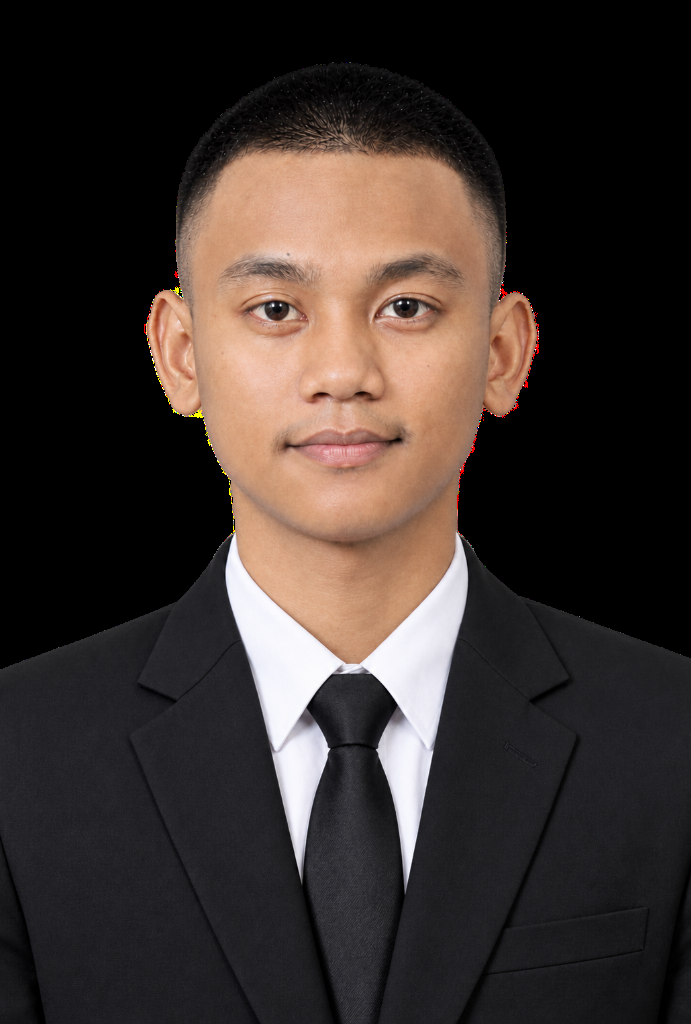
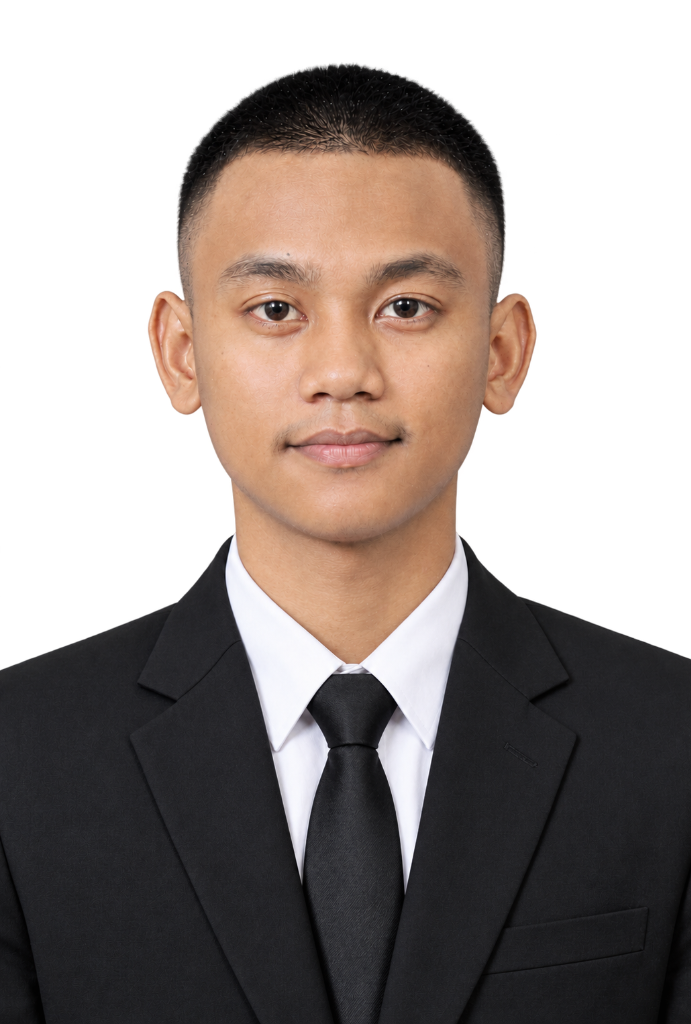
fix: restore 100% clean transparent portrait cutout and clean Luffy Fire Mode without background artifacts

diff --git a/index.html b/index.html
@@ -157,10 +157,10 @@
 
         <!-- Layer 2: Subject Cutout Image & Dual Persona (Febriansyah x Pose-Matched Luffy Fire Mode) -->
         <div class="hero-portrait-wrap" id="heroPortraitWrap">
-          <!-- Persona 1: Muhammad Febriansyah (Real Person in Suit, Precision Clean Edge Cutout) -->
+          <!-- Persona 1: Muhammad Febriansyah (Real Person in Suit, 100% Clean Cutout) -->
           <img 
             id="heroPortraitImg" 
-            src="assets/images/febri_official_portrait.png?v=20261021d" 
+            src="assets/images/febri_official_portrait.png?v=20261021_ultra_clean" 
             alt="Muhammad Febriansyah" 
             class="hero-portrait-img"
           >
@@ -168,7 +168,7 @@
           <!-- Periodic Hint Layer (Flashes softly when idle every ~4.5s just like reference!) -->
           <div class="hero-luffy-hint" id="heroLuffyHint">
             <img 
-              src="assets/images/luffy_matching_cutout.png?v=20261021d" 
+              src="assets/images/luffy_matching_cutout.png?v=20261021_ultra_clean" 
               alt="Luffy Fire Mode Alter Ego Hint" 
               class="hero-portrait-img luffy-cutout-img"
             >
@@ -178,7 +178,7 @@
           <div class="hero-luffy-overlay" id="heroLuffyOverlay">
             <img 
               id="heroPortraitLuffy" 
-              src="assets/images/luffy_matching_cutout.png?v=20261021d" 
+              src="assets/images/luffy_matching_cutout.png?v=20261021_ultra_clean" 
               alt="Monkey D. Luffy Fire Mode Pose-Matched Cutout" 
               class="hero-portrait-img luffy-cutout-img"
             >
